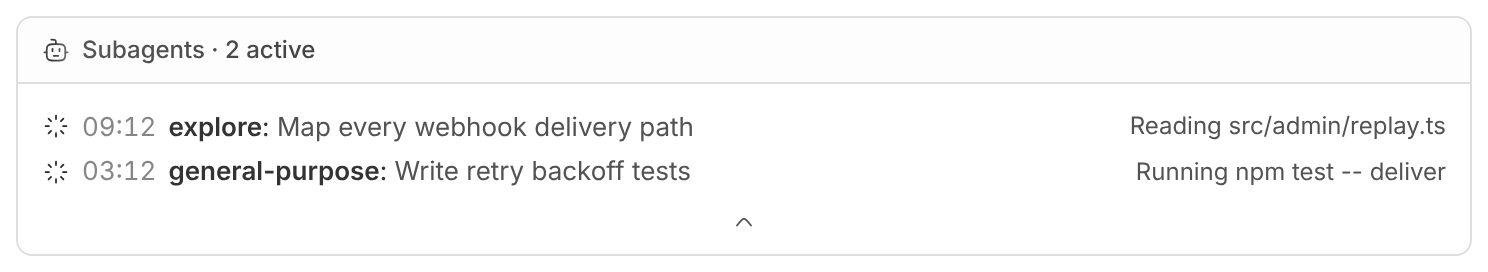
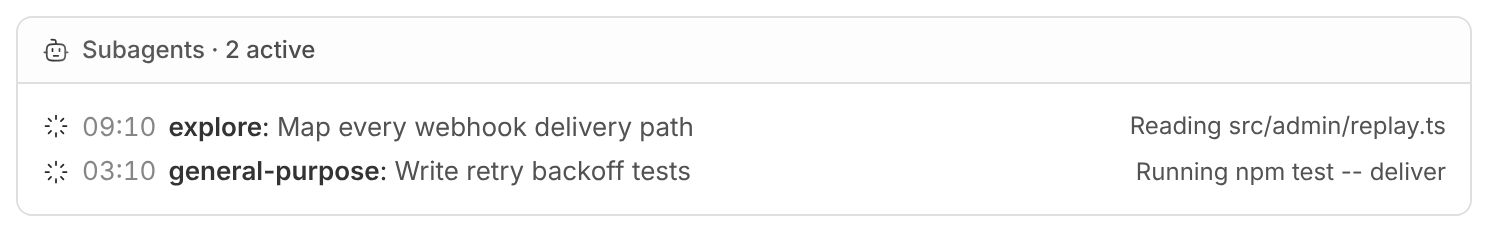
Hide bb's collapse chevron under the Todos and Subagents cards in bb
bb's collapsible stack card draws a chevron row under the body that only
collapses the card again, which clicking the card's title already does. The
card takes no prop to leave it out, so the card body hides its sibling row
with a scoped Tailwind selector and pads its bottom to the header's 12px
inset like the other three sides.

bb-shot.mjs --check now also measures the body's bottom inset and fails when
bb's collapse row shows, so a bb update that changes its markup is caught.
The expanded card images in docs/bb are regenerated.

Claude-Session: https://claude.ai/code/session_01MbvfwyDgRWdBrBYycWQ5Cx

diff --git a/bb-plugin/ui/stack-cards.tsx b/bb-plugin/ui/stack-cards.tsx
@@ -1,10 +1,14 @@
 // Slot 1: composer banners (chrome "bare") drawn as bb's collapsible stack cards,
 // one per widget view the session offers.
 //
-// bb draws the card's header (12px inset, 14px icon, 6px gap) and the collapse
-// row, but leaves the body's padding to us. The body matches the header: the
-// same 12px inset on the left, right and top, and each row keeps a leading
+// bb draws the card's header (12px inset, 14px icon, 6px gap) and a collapse
+// row under the body, but leaves the body's padding to us. The body matches the
+// header: the same 12px inset on every side, and each row keeps a leading
 // column as wide as the header's icon, so row text lines up under the title.
+//
+// The collapse row is a second button that does what clicking the header
+// already does, and the card takes no prop to leave it out, so the body hides
+// it: the row is the body's next sibling inside bb's region.
 import {
   experimental_CollapsibleStackCard as CollapsibleStackCard,
   type ExperimentalCollapsibleStackCardProps,
@@ -16,8 +20,14 @@ import { titleText, widgetTitle, WidgetRows } from "./surface.tsx";
 
 type CardIcon = ExperimentalCollapsibleStackCardProps["icon"];
 
-/** The card body's padding: the header's 12px inset on three sides. */
-export const STACK_CARD_BODY_CLASS = "px-3 pt-3 pb-1";
+/**
+ * Hides bb's collapse row (a `div` holding the "Collapse <title>" chevron button)
+ * that follows the body; the header toggles the card instead.
+ */
+export const HIDE_COLLAPSE_ROW_CLASS = "[&~div:has(>button[aria-label^='Collapse_'])]:hidden";
+
+/** The card body's class: the header's 12px inset on every side, and no collapse row. */
+export const STACK_CARD_BODY_CLASS = `p-3 ${HIDE_COLLAPSE_ROW_CLASS}`;
 
 /** The widget views that get a stack card, in order, with bb's icon for each. */
 export const WIDGET_CARDS: ReadonlyArray<{ banner: string; view: string; icon: CardIcon }> = [

diff --git a/bb-plugin/test/app.test.tsx b/bb-plugin/test/app.test.tsx
@@ -14,6 +14,7 @@ import { fixtureResponder, fixtureSnapshot } from "../fixture.ts";
 import { duration } from "../ui/format.ts";
 import { toAnswer } from "../ui/questionnaire.tsx";
 import { RowBadge, SessionList } from "../ui/sessions.tsx";
+import { HIDE_COLLAPSE_ROW_CLASS } from "../ui/stack-cards.tsx";
 import {
   countText,
   openQuestionnaires,
@@ -281,7 +282,8 @@ describe("pi-surface app", () => {
       const banner = app.composerCustomizations[0]!.banners![index]!;
       const slot = renderSlot(banner, {}, { rpc: rpcFor(fixture), composer: threadComposer });
       const list = await slot.findByRole("list", { name });
-      expect(classes(list)).toEqual(expect.arrayContaining(["px-3", "pt-3"]));
+      // The 12px inset on every side, and bb's collapse row (a second toggle) hidden.
+      expect(classes(list)).toEqual(expect.arrayContaining(["p-3", HIDE_COLLAPSE_ROW_CLASS]));
       for (const row of Array.from(list.querySelectorAll(":scope > li"))) {
         expect(classes(row).filter((c) => /^-?(p|px|pl|pr|m|mx|ml|mr)-/.test(c))).toEqual([]);
         // A header-icon-wide leading column, so text starts under the card's title.

diff --git a/docs/bb/ui-slots.md b/docs/bb/ui-slots.md
@@ -78,19 +78,21 @@ stopped, clocks stop and the card is no longer active.
 ![Subagents card expanded](../images/bb/stack-card-subagents.png)
 
 Spacing: bb draws the card frame, the header (`px-3 py-1.5`: a 12px inset,
-14px icon, 6px gap to the title) and the collapse row at the bottom, and wraps
-`children` with no padding of its own. The body's padding is ours: the cards
-pad it `px-3 pt-3` and give rows the header's icon size and gap, so the body has
-the header's 12px inset on the left, right and top, and each row keeps a
-leading column as wide as the header's icon, so row text lines up under the
-header's title. The card takes no `className`, so the header and the
-collapse row cannot change. `bb-shot.mjs --check` in the `bb-screenshot` skill
-measures this in bb.
+14px icon, 6px gap to the title) and a chevron collapse row at the bottom, and
+wraps `children` with no padding of its own. The body's padding is ours: the
+cards pad it `p-3` and give rows the header's icon size and gap, so the body has
+the header's 12px inset on every side, and each row keeps a leading column as
+wide as the header's icon, so row text lines up under the header's title. The
+card takes no `className`, so the header cannot change. The collapse row only
+repeats the header's toggle, so the body hides it with a sibling selector
+(`HIDE_COLLAPSE_ROW_CLASS` in `ui/stack-cards.tsx`): click the title to
+collapse. `bb-shot.mjs --check` in the `bb-screenshot` skill measures this in
+bb.
 
 Limits:
 
 - There is no slot **below** the composer; the stack above it is the closest.
-- Cards start collapsed and bb owns the toggle; `isActive` switches the header
+- Cards start collapsed and bb owns the toggle (the header); `isActive` switches the header
   to bb's animated working style.
 - Banners do not render on a thread whose composer is hidden (archived, or its
   environment is gone). We scope ours to thread composers (`scopes: ["thread"]`).

diff --git a/.agents/skills/bb-screenshot/SKILL.md b/.agents/skills/bb-screenshot/SKILL.md
@@ -105,9 +105,11 @@ Prints each card's insets in CSS pixels and exits 1 when they are uneven:
 
 - `header.iconLeft`, `header.textLeft`: bb's own header (12 px, 32 px). This is
   the reference; the plugin cannot change it.
-- `body.left`, `body.right`, `body.top`: the plugin's body content inside the
-  card, from the divider under the header. All three must equal the header's
-  icon inset.
+- `body.left`, `body.right`, `body.top`, `body.bottom`: the plugin's body
+  content inside the card, from the divider under the header to the card's
+  bottom edge. All four must equal the header's icon inset.
+- `body.collapseRow`: whether bb's chevron collapse row shows under the body.
+  The body hides it (the header toggles the card), so it must be false.
 - `body.textLeft`: the first row's text (or pill) column; must equal the
   header's title column.
 - `context.iconLeft`: the Pi segment in the context row; must equal the
@@ -128,10 +130,10 @@ node .agents/skills/bb-screenshot/scripts/bb-harness.mjs reload
 
 What bb draws and what the plugin draws, for spacing work: bb owns the card
 frame, the header (`px-3 py-1.5`, 14 px icon, 6 px gap) and the collapse row at
-the bottom; the plugin owns everything between the divider and the collapse row,
-and its context segment's own padding inside the row's 4 px inset. bb's source
-(`get-bb/bb`, `apps/app/src/components/promptbox/banner/`) is the reference for
-its classes.
+the bottom, which the plugin's card body hides; the plugin owns everything under
+the divider, and its context segment's own padding inside the row's 4 px inset.
+bb's source (`get-bb/bb`, `apps/app/src/components/promptbox/banner/`) is the
+reference for its classes.
 
 ## The bb CLI and cleanup
 
